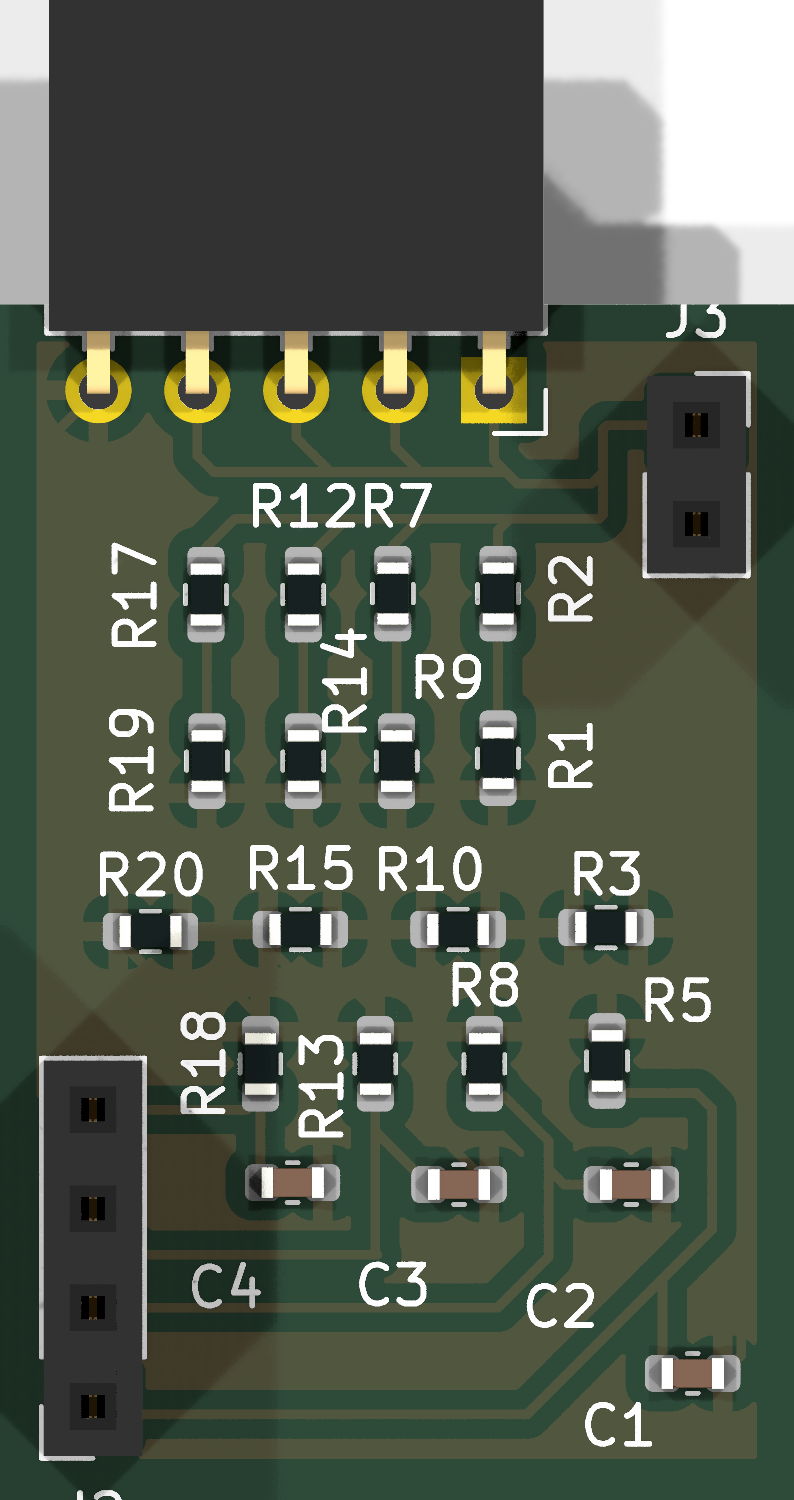
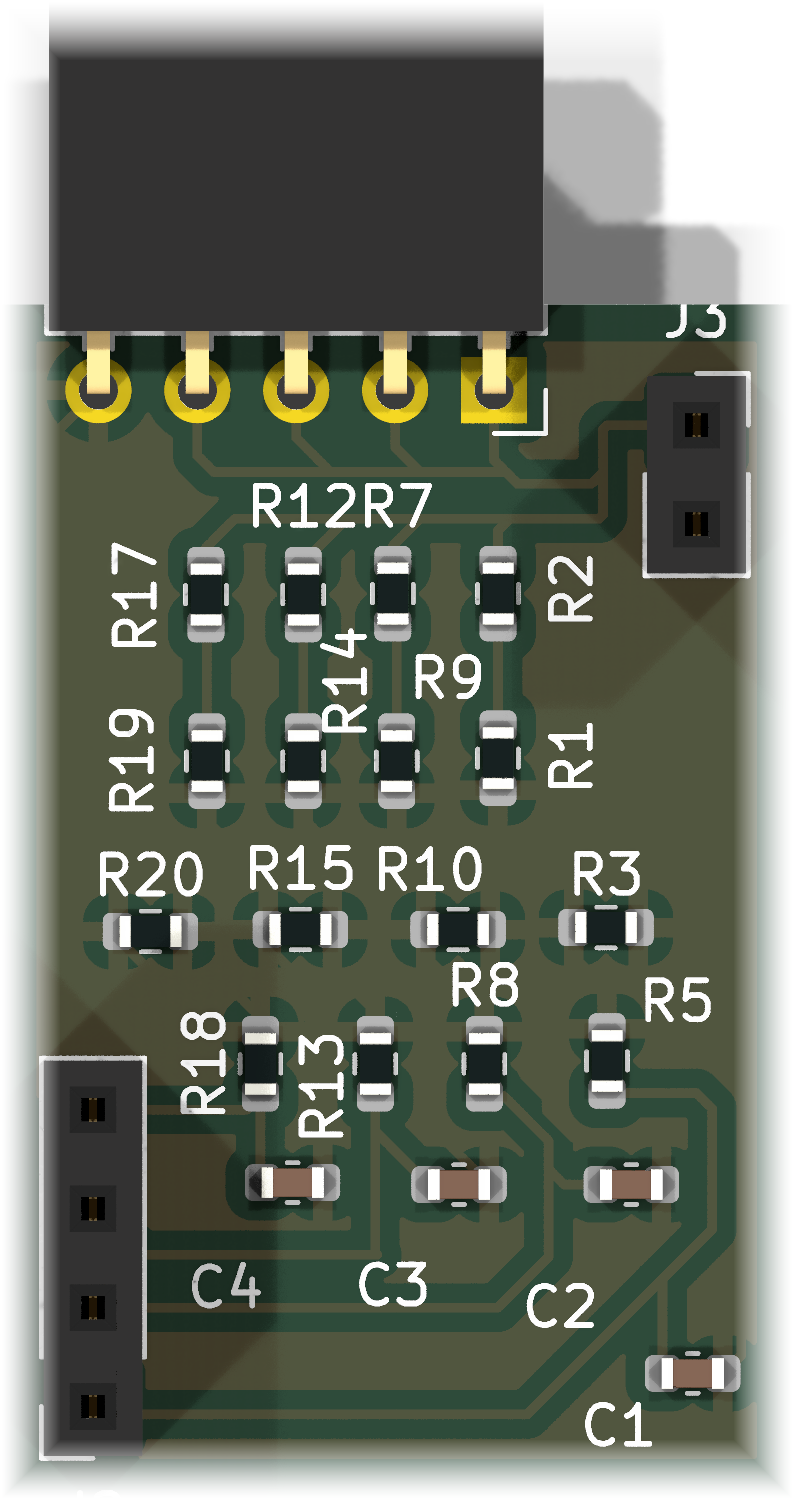
Photo reveal: the real board fades in under the line traces at morph end
Calibrated photoreal render appears t 0.8-0.97 while lines dim to 55%;
edge-feathered so connector overhangs melt into space. Scrub-reversible.
Found (not fixed): the dark mask quad was always back-face culled.

Changed region(s): [[0.0, 0.0, 1.0, 1.0]]

diff --git a/js/scene3d.js b/js/scene3d.js
@@ -402,6 +402,7 @@ export function createHero(canvas, opts = {}) {
   //   .00 → .25  release    λ handed to the morph (PHY.holdRelease) — beads free, sheet flattens
   //   .25 → .60  un-weave   fabric lines fade out as the trace layer slides off the lattice
   //   .60 → .85  crystallise solder mask · outline · pads · silkscreen · logo fade in
+  //   .80 → .97  land       the photoreal board fades in UNDER the lines; mask fades out
   //   .85 → 1    pull back  camera dollies out ×DOLLY; the board reads as one object
   const BOARD_URL = './js/data/board-hswb.json';
   const LOGO_URL = 'image/logo-bin-mono.png';
@@ -409,6 +410,9 @@ export function createHero(canvas, opts = {}) {
   const BOARD_W = 0.52;      // board width AFTER rotation, as a fraction of the viewport W
   const TRACE_N = 0.9;       // trace layer lift along n̂ [world]
   const FACE_N = 0.2;        // solder-mask quad, just under the copper
+  const PHOTO_N = 0.1;       // photoreal board, just under the mask it replaces
+  const PHOTO_MAX = 0.92;    // photo opacity at t = 1
+  const LINE_DIM = 0.55;     // the line layers step back to this once the photo has landed
   const SILK_N = 1.4;        // silkscreen sits on top of the mask
   const PULSE_N = 2.4;       // signal pulses ride above the traces
   const SILK_F = 0.024;      // silkscreen cap height, as a fraction of the board height
@@ -462,8 +466,26 @@ export function createHero(canvas, opts = {}) {
   const face = new THREE.Mesh(faceGeo, faceMat);
   face.renderOrder = -1;                       // under the copper, over the (faded) fabric
 
+  // the physical board, photographed. Its uv attribute is fixed; the four corners move in
+  // buildBoardGeom so that the image's photo.rect sub-region lands ON the drawn outline.
+  // Board y and rect v both run top-down (PIL), three.js uv v runs bottom-up (flipY default),
+  // hence uv.v = 1 − v_rect: the two TOP corners (rect v = v0 side) get uv.v = 1.
+  const photoGeo = new THREE.BufferGeometry();
+  photoGeo.setAttribute('position', new THREE.BufferAttribute(new Float32Array(12), 3));
+  photoGeo.setAttribute('uv', new THREE.BufferAttribute(new Float32Array([0, 1, 1, 1, 1, 0, 0, 0]), 2));
+  photoGeo.setIndex([0, 1, 2, 0, 2, 3]);
+  // DoubleSide: the quad's winding flips with the BOARD_ROT knob, and a culled photo is a
+  // silent failure — this is the one word that survives any rotation.
+  const photoMat = new THREE.MeshBasicMaterial({
+    transparent: true, opacity: 0, depthWrite: false, side: THREE.DoubleSide,
+  });
+  const photoMesh = new THREE.Mesh(photoGeo, photoMat);
+  photoMesh.renderOrder = -2;                  // under the mask (-1), which is under the copper
+  photoMesh.visible = false;
+  let photoPx = [0, 0];
+
   const silkGrp = new THREE.Group();
-  for (const o of [face, traceLines, outline, padLines, silkGrp]) { o.frustumCulled = false; boardGrp.add(o); }
+  for (const o of [photoMesh, face, traceLines, outline, padLines, silkGrp]) { o.frustumCulled = false; boardGrp.add(o); }
 
   // per-trace source/target endpoints in PHYSICS px: [ax, ay, bx, by]
   let NT = 0, srcRows = 0;
@@ -526,6 +548,13 @@ export function createHero(canvas, opts = {}) {
     }));
     logo.userData.box = [0.5, 0.84];             // centre-bottom of what the viewer sees
     silkGrp.add(logo);
+
+    if (j.photo) {
+      const pt = new THREE.TextureLoader().load(j.photo.url, undefined, undefined,
+        () => console.warn('board morph: board photo missing —', j.photo.url));
+      pt.colorSpace = THREE.SRGBColorSpace;
+      photoMat.map = pt; photoMat.needsUpdate = true;
+    }
 
     buildBoardGeom();
     // pulses: the amber tracers first, then the lowest indices. Phase = a random start.
@@ -620,6 +649,22 @@ export function createHero(canvas, opts = {}) {
     });
     faceGeo.attributes.position.needsUpdate = true;
 
+    // photo.rect = the outline's sub-rectangle inside the image, and the board unit square
+    // IS that rectangle — so image u maps to board x as bx = (u − u0)/du, likewise v → by.
+    // The image corners are therefore bx ∈ [−u0/du, (1 − u0)/du] (span 1/du board-x units,
+    // i.e. aspect·bs/du px) and by ∈ [−v0/dv, (1 − v0)/dv]. Corner order matches the uv
+    // attribute above: top-left, top-right, bottom-right, bottom-left.
+    if (board.photo) {
+      const [u0, v0, u1, v1] = board.photo.rect, du = u1 - u0, dv = v1 - v0;
+      const pq = photoGeo.attributes.position.array;
+      [[-u0 / du, -v0 / dv], [(1 - u0) / du, -v0 / dv],
+        [(1 - u0) / du, (1 - v0) / dv], [-u0 / du, (1 - v0) / dv]].forEach((c, i) => {
+        b2p(c[0], c[1], t1); sheetXYZ(t1[0], t1[1], PHOTO_N, pq, i * 3);
+      });
+      photoGeo.attributes.position.needsUpdate = true;
+      photoPx = [board.aspect * bs / du, bs / dv];   // image u/v extents, in physics px
+    }
+
     const sh = SILK_F * bh * PLANE_S, ls = LOGO_F * bh * PLANE_S;
     for (const sp of silkGrp.children) {
       if (sp.userData.box) { box2p(sp.userData.box[0], sp.userData.box[1], t1); sp.scale.set(ls, ls, 1); }
@@ -655,11 +700,12 @@ export function createHero(canvas, opts = {}) {
     if (!board) { pulseOn = false; return; }
 
     // stage 2 — the fabric hands its lines over to the copper
-    const s2 = stg(t, 0.25, 0.6), s3 = stg(t, 0.6, 0.85);
+    const s2 = stg(t, 0.25, 0.6), s3 = stg(t, 0.6, 0.85), s4 = stg(t, 0.8, 0.97);
+    const dim = 1 - (1 - LINE_DIM) * s4;          // lines step back once the photo lands
     fabMat.opacity = 1 - s2;
     fabric.visible = fabMat.opacity > 0.004;
 
-    traceMat.opacity = stg(t, 0.25, 0.36);
+    traceMat.opacity = stg(t, 0.25, 0.36) * dim;
     boardGrp.visible = traceMat.opacity > 0.002;
     // only the 150-vertex-pair rewrite is skipped when the layer is invisible; every
     // opacity below still tracks t, so scrubbing back leaves no flag lying about its state
@@ -676,12 +722,17 @@ export function createHero(canvas, opts = {}) {
     }
 
     // stage 3 — the board becomes an object
-    faceMat.opacity = 0.92 * s3;
-    outMat.opacity = 0.50 * s3;
-    padMat.opacity = 0.45 * s3;
+    // stage 4 — the blueprint lands on the real thing: the photo fades in under the copper,
+    // the stand-in mask fades out from under it, and the lines step back to LINE_DIM.
+    faceMat.opacity = 0.92 * s3 * (1 - s4);
+    outMat.opacity = 0.50 * s3 * dim;
+    padMat.opacity = 0.45 * s3 * dim;
+    photoMat.opacity = PHOTO_MAX * s4;
     for (const sp of silkGrp.children) sp.material.opacity = (sp.userData.box ? 0.20 : 0.42) * s3;
     const on = s3 > 0.004;
-    face.visible = outline.visible = padLines.visible = silkGrp.visible = on;
+    outline.visible = padLines.visible = silkGrp.visible = on;
+    face.visible = faceMat.opacity > 0.004;
+    photoMesh.visible = !!board.photo && photoMat.opacity > 0.004;
 
     pulseOn = t >= 0.6;
   }
@@ -869,6 +920,7 @@ export function createHero(canvas, opts = {}) {
         t: morphT, fabricOpacity: +fabMat.opacity.toFixed(3), fabricVisible: fabric.visible,
         traceOpacity: +traceMat.opacity.toFixed(3), boardVisible: boardGrp.visible,
         maskOpacity: +faceMat.opacity.toFixed(3), silkSprites: silkGrp.children.length,
+        photoOpacity: +photoMat.opacity.toFixed(3), photoPx: photoPx.map(v => +v.toFixed(1)),
         pulseOn, pulses: pulsePos.length / 2, beadScale: +beadScale.toFixed(3),
         dolly: +dolly.toFixed(3), lambda: +PHY.getLambda().toFixed(4), mode: PHY.getMode(),
       };
@@ -900,8 +952,10 @@ export function createHero(canvas, opts = {}) {
       if (fpsEl) fpsEl.remove();
       bloom.dispose(); outPass.dispose(); composer.dispose();
       fabGeo.dispose(); beadGeo.dispose(); starGeo.dispose(); beamGeo.dispose();
-      traceGeo.dispose(); outGeo.dispose(); padGeo.dispose(); faceGeo.dispose();
+      traceGeo.dispose(); outGeo.dispose(); padGeo.dispose(); faceGeo.dispose(); photoGeo.dispose();
       traceMat.dispose(); outMat.dispose(); padMat.dispose(); faceMat.dispose();
+      if (photoMat.map) photoMat.map.dispose();
+      photoMat.dispose();
       for (const sp of silkGrp.children) { sp.material.map.dispose(); sp.material.dispose(); }
       fabMat.dispose(); starMat.dispose(); glassMat.dispose(); tracMat.dispose();
       beamMat.dispose(); glowMat.dispose(); coreMat.dispose();
